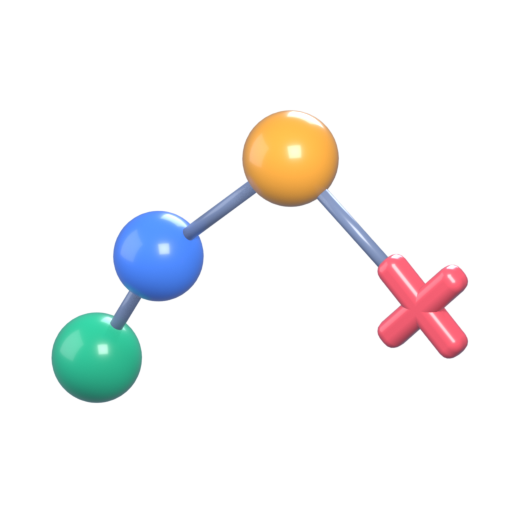
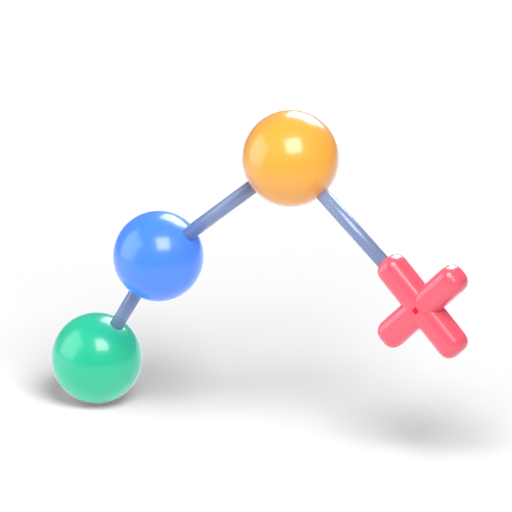
re-rendered images using blender

diff --git a/css/style.css b/css/style.css
@@ -228,8 +228,8 @@ a.chip:hover{border-color:var(--ink);color:var(--ink);text-decoration:none}
 .plan-card.lc75{background:linear-gradient(160deg,var(--lc75-a),var(--lc75-b))}
 .plan-card.top150{background:linear-gradient(160deg,var(--top-a),var(--top-b))}
 .plan-card h3{font-size:30px;font-weight:850;font-stretch:112%;color:#fff}
-.plan-card p{color:rgba(255,255,255,.78);max-width:30ch;font-size:15px}
-.plan-card .pc-art{position:absolute;right:-10px;bottom:-14px;width:min(52%,250px);z-index:-1;filter:drop-shadow(0 18px 30px rgba(0,0,0,.35))}
+.plan-card p{color:rgba(255,255,255,.78);max-width:min(30ch,52%);font-size:15px}
+.plan-card .pc-art{position:absolute;right:-6px;bottom:-10px;width:min(44%,230px);z-index:-1;filter:drop-shadow(0 14px 22px rgba(0,0,0,.18))}
 .plan-card .pc-art.fallback{opacity:.9}
 .plan-card .pc-foot{margin-top:auto;display:grid;gap:8px;max-width:56%}
 .plan-card .pc-foot small{font:500 12px/1.2 var(--font-mono);color:rgba(255,255,255,.85);letter-spacing:.04em}
@@ -247,8 +247,9 @@ a.chip:hover{border-color:var(--ink);color:var(--ink);text-decoration:none}
   background:var(--surface);color:var(--fg);overflow:hidden;min-height:180px;transition:border-color .15s,transform .15s
 }
 .topic-card:hover{border-color:var(--ink);text-decoration:none;transform:translateY(-2px)}
-.topic-card .tc-art{height:92px;display:grid;place-items:center;margin:-2px -6px 6px}
-.topic-card .tc-art img{height:100%;width:auto;object-fit:contain;filter:drop-shadow(0 10px 14px rgba(0,0,0,.25))}
+.topic-card .tc-art{height:104px;display:grid;place-items:center;margin:-2px -6px 6px;overflow:hidden}
+.topic-card .tc-art img{width:104px;height:104px;max-width:none;object-fit:contain;transition:transform .25s ease}
+.topic-card:hover .tc-art img{transform:translateY(-3px) scale(1.04)}
 .topic-card .tc-art svg{width:64px;height:64px;color:var(--ink)}
 .topic-card .tc-num{font:600 11px/1 var(--font-mono);color:var(--muted);letter-spacing:.1em}
 .topic-card h4{font-size:17px;font-weight:800;font-stretch:106%;margin:3px 0 4px}
@@ -268,9 +269,9 @@ a.chip:hover{border-color:var(--ink);color:var(--ink);text-decoration:none}
 .lesson-toc a:hover,.lesson-toc a.on{color:var(--fg);text-decoration:none}
 .lesson-toc a.on{color:var(--ink)}
 @media (max-width: 1240px){ .lesson{grid-template-columns:minmax(0,1fr)} .lesson-toc{display:none} }
-.prose{display:grid;gap:18px;max-width:var(--read-w)}
-.prose>.wide{max-width:none;width:min(var(--wide-w) - 264px,calc(100vw - var(--sidebar-w) - 48px))}
-@media (max-width: 1240px){ .prose>.wide{width:auto} }
+.prose{display:grid;gap:18px;grid-template-columns:minmax(0,1fr)}
+.prose>*:not(.wide){max-width:var(--read-w);min-width:0}
+.prose>.wide{min-width:0}
 .prose p,.prose li{color:var(--fg-2)}
 .prose p strong,.prose li strong{color:var(--fg)}
 .prose code:not(pre code){font-size:.88em;padding:1.5px 6px;border-radius:6px;background:var(--surface-2);border:1px solid var(--line);color:var(--fg)}

diff --git a/tools/render_art.py b/tools/render_art.py
@@ -1,10 +1,15 @@
-"""Render the DSA Atlas card art with Blender (headless).
+"""Render the DSA Atlas card art with Blender.
 
+Headless (fast EEVEE, empty factory scene):
     "C:\\Program Files\\Blender Foundation\\Blender 5.2\\blender.exe" -b --factory-startup -P tools/render_art.py
 
+Live, inside an open Blender (Cycles + soft contact shadows), from the Python console:
+    ns = {"__name__": "dsa_art", "__file__": r"<path>/tools/render_art.py"}
+    exec(open(ns["__file__"]).read(), ns); ns["setup"](live=True); ns["render_all"]()
+Live mode builds everything in its own scene, "DSA Atlas Art", and never touches other scenes.
+
 Builds one small 3D scene per chapter (and one per study plan) out of the same
-glossy primitives the in-browser 3D figures use, and renders transparent PNGs
-into assets/art/. Starts from an empty factory scene, so no user files are touched.
+glossy primitives the in-browser 3D figures use, and renders transparent PNGs into assets/art/.
 """
 import math
 import os
@@ -17,6 +22,7 @@ ROOT = os.path.dirname(os.path.dirname(os.path.abspath(__file__)))
 OUT = os.path.join(ROOT, 'assets', 'art')
 os.makedirs(OUT, exist_ok=True)
 ONLY = set(sys.argv[sys.argv.index('--') + 1:]) if '--' in sys.argv else set()
+ART_SCENE = 'DSA Atlas Art'
 
 PAL = {
     'ink': '#4d8dff', 'deep': '#2d5fd0', 'accent': '#ffad3b', 'mint': '#29c993', 'violet': '#9677ff',
@@ -24,40 +30,69 @@ PAL = {
     'gold': '#ffb84d', 'pale': '#a8caff',
 }
 
-bpy.ops.wm.read_factory_settings(use_empty=True)
-scene = bpy.context.scene
-for engine in ('BLENDER_EEVEE', 'BLENDER_EEVEE_NEXT', 'CYCLES'):
-    try:
-        scene.render.engine = engine
-        break
-    except TypeError:
-        continue
-print('engine:', scene.render.engine)
-if scene.render.engine == 'CYCLES':
-    scene.cycles.samples = 48
-    scene.cycles.use_denoising = True
-else:
-    try:
-        scene.eevee.taa_render_samples = 48
-    except AttributeError:
-        pass
-    for attr in ('use_raytracing', 'use_gtao', 'use_shadows'):
-        if hasattr(scene.eevee, attr):
-            setattr(scene.eevee, attr, True)
-try:
-    scene.view_settings.view_transform = 'Standard'
-except TypeError:
-    pass
-scene.render.film_transparent = True
-scene.render.image_settings.file_format = 'PNG'
-scene.render.image_settings.color_mode = 'RGBA'
+scene = cam = cam_data = None
 
-world = bpy.data.worlds.new('World')
-scene.world = world
-world.use_nodes = True
-bg = next(n for n in world.node_tree.nodes if n.type == 'BACKGROUND')
-bg.inputs[0].default_value = (0.20, 0.23, 0.32, 1)
-bg.inputs[1].default_value = 0.9
+
+def setup(live=False, engine=None, samples=64):
+    """Prepare a scene with world, lights and an orthographic camera. Returns the scene."""
+    global scene, cam, cam_data
+    if live:
+        scene = bpy.data.scenes.get(ART_SCENE) or bpy.data.scenes.new(ART_SCENE)
+        for win in bpy.context.window_manager.windows:
+            win.scene = scene                     # show it; the user's own scenes stay untouched
+    else:
+        bpy.ops.wm.read_factory_settings(use_empty=True)
+        scene = bpy.context.scene
+    wanted = engine or ('CYCLES' if live else 'BLENDER_EEVEE')
+    for eng in (wanted, 'BLENDER_EEVEE', 'BLENDER_EEVEE_NEXT', 'CYCLES'):
+        try:
+            scene.render.engine = eng
+            break
+        except TypeError:
+            continue
+    if scene.render.engine == 'CYCLES':
+        scene.cycles.samples = samples
+        scene.cycles.use_denoising = True
+        prefs = bpy.context.preferences.addons.get('cycles')
+        if prefs and getattr(prefs.preferences, 'compute_device_type', 'NONE') != 'NONE':
+            scene.cycles.device = 'GPU'           # only if the user already enabled a GPU
+    else:
+        try:
+            scene.eevee.taa_render_samples = samples
+        except AttributeError:
+            pass
+        for attr in ('use_raytracing', 'use_gtao', 'use_shadows'):
+            if hasattr(scene.eevee, attr):
+                setattr(scene.eevee, attr, True)
+    try:
+        scene.view_settings.view_transform = 'Standard'
+    except TypeError:
+        pass
+    scene.render.film_transparent = True
+    scene.render.image_settings.file_format = 'PNG'
+    scene.render.image_settings.color_mode = 'RGBA'
+
+    world = bpy.data.worlds.get('DSA Art World') or bpy.data.worlds.new('DSA Art World')
+    scene.world = world
+    world.use_nodes = True
+    bg = next(n for n in world.node_tree.nodes if n.type == 'BACKGROUND')
+    bg.inputs[0].default_value = (0.20, 0.23, 0.32, 1)
+    bg.inputs[1].default_value = 0.9
+
+    for o in list(scene.objects):                 # rebuild lights and camera cleanly
+        if o.type in ('LIGHT', 'CAMERA'):
+            bpy.data.objects.remove(o, do_unlink=True)
+    add_light('key', (5, -6, 12), 1900, 8)
+    add_light('fill', (-8, -4, 4), 500, 8, (0.85, 0.9, 1.0), shadow=False)
+    add_light('rim', (-2, 9, 7), 1100, 6, (0.75, 0.85, 1.0), shadow=False)
+    cam_data = bpy.data.cameras.new('dsa_cam')
+    cam_data.type = 'ORTHO'
+    cam_data.clip_end = 500
+    cam = bpy.data.objects.new('dsa_cam', cam_data)
+    scene.collection.objects.link(cam)
+    scene.camera = cam
+    print('engine:', scene.render.engine, 'device:', getattr(scene.cycles, 'device', '-') if scene.render.engine == 'CYCLES' else '-')
+    return scene
 
 
 def lin(hexstr):
@@ -179,26 +214,19 @@ def text(body, x=0, y=0, z=0, size=2.0, col='white', extrude=0.22):
 
 
 # --------------------------------------------------------------- lights, camera
-def add_light(name, loc, energy, size, color=(1, 1, 1)):
+def add_light(name, loc, energy, size, color=(1, 1, 1), shadow=True):
     ld = bpy.data.lights.new(name, 'AREA')
     ld.energy = energy
     ld.size = size
     ld.color = color
+    if hasattr(ld, 'use_shadow'):
+        ld.use_shadow = shadow
+    if hasattr(ld, 'cycles') and hasattr(ld.cycles, 'cast_shadow'):
+        ld.cycles.cast_shadow = shadow
     lo = bpy.data.objects.new(name, ld)
     scene.collection.objects.link(lo)
     lo.location = loc
     lo.rotation_euler = (-Vector(loc)).to_track_quat('-Z', 'Y').to_euler()
-
-
-add_light('key', (6, -7, 9), 1500, 6)
-add_light('fill', (-8, -4, 4), 500, 8, (0.85, 0.9, 1.0))
-add_light('rim', (-2, 9, 7), 1100, 6, (0.75, 0.85, 1.0))
-cam_data = bpy.data.cameras.new('cam')
-cam_data.type = 'ORTHO'
-cam_data.clip_end = 500
-cam = bpy.data.objects.new('cam', cam_data)
-scene.collection.objects.link(cam)
-scene.camera = cam
 
 
 def frame(direction=(1.0, -1.25, 0.95), margin=1.18):
@@ -208,7 +236,7 @@ def frame(direction=(1.0, -1.25, 0.95), margin=1.18):
     pts = []
     dg = bpy.context.evaluated_depsgraph_get()
     for o in scene.objects:
-        if o.type not in ('MESH', 'FONT'):
+        if o.type not in ('MESH', 'FONT') or o.name.startswith('dsa_floor'):
             continue
         oe = o.evaluated_get(dg)
         pts += [oe.matrix_world @ Vector(c) for c in oe.bound_box]
@@ -456,15 +484,40 @@ ICONS = {
 }
 FRONTAL = {'lc75', 'top150', 'trees', 'tries', 'backtracking', 'interview'}
 
-for name, build in ICONS.items():
-    if ONLY and name not in ONLY:
-        continue
+
+def add_floor():
+    """Invisible floor under the icon that only receives shadows (Cycles shadow catcher)."""
+    if scene.render.engine != 'CYCLES':
+        return
+    dg = bpy.context.evaluated_depsgraph_get()
+    zmin = min((o.evaluated_get(dg).matrix_world @ Vector(c)).z
+               for o in scene.objects if o.type in ('MESH', 'FONT') for c in o.evaluated_get(dg).bound_box)
+    bpy.ops.mesh.primitive_plane_add(size=80, location=(0, 0, zmin))
+    floor = bpy.context.active_object
+    floor.name = 'dsa_floor'
+    floor.is_shadow_catcher = True
+
+
+def render_icon(name):
     clear()
-    build()
+    ICONS[name]()
+    add_floor()
     big = name in ('lc75', 'top150')
     frame((0.55, -1.0, 0.42) if name in FRONTAL else (1.0, -1.25, 0.95), margin=1.12 if big else 1.16)
     scene.render.resolution_x = scene.render.resolution_y = 768 if big else 512
     scene.render.filepath = os.path.join(OUT, name + '.png')
     bpy.ops.render.render(write_still=True)
     print('rendered', name)
-print('done')
+
+
+def render_all(names=None):
+    for name in (names or ICONS):
+        if ONLY and name not in ONLY:
+            continue
+        render_icon(name)
+    print('done')
+
+
+if __name__ == '__main__':
+    setup(live=not bpy.app.background)
+    render_all()
